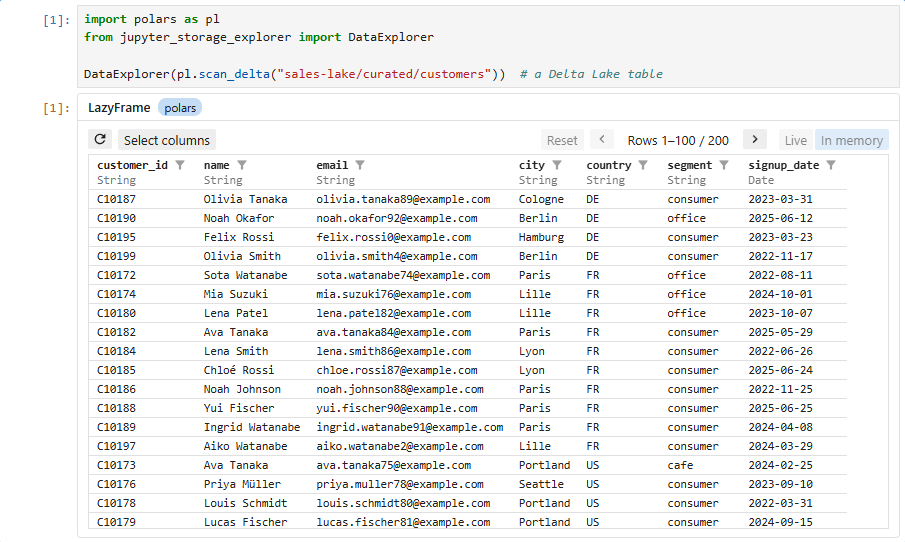
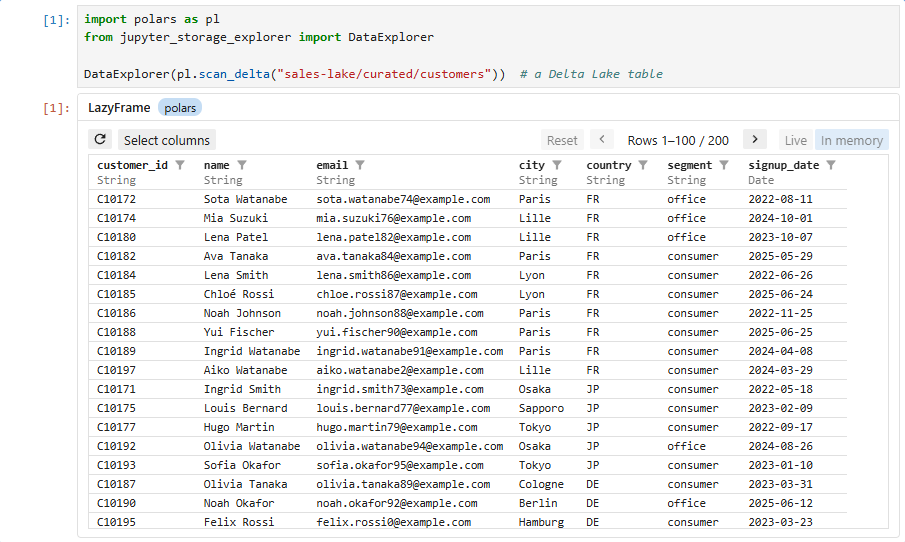
Filters: a button to match case; Up right before the path
Filters ignored case, with no way to match it. An Aa button, off at first, now
matches case, for text and regular expressions, in the browser and in the
kernel's filter of large folders.

Up comes right before the path in the toolbar, as in the sidebar layout, whose
filter now takes its bar's whole width.

The screenshots and GIFs are made again with the new toolbar and filter.

Claude-Session: https://claude.ai/code/session_01B9a22URyrxwXHnqdzQn2rs

diff --git a/src/jupyter_storage_explorer/static/common.js b/src/jupyter_storage_explorer/static/common.js
@@ -189,28 +189,37 @@ function confirmButtons(label) {
 }
 
 // A one-line filter: a text field with a search icon (not a button) and a
-// clear button (✕, while it has text), and a ".*" toggle for regular expressions. Matching is always
-// case-insensitive. onChange() is called as it changes. test(text) tells
-// whether a name matches: everything matches while the field is empty, or
-// while its regular expression is invalid (marked in red). active() tells
-// whether it filters; clear() empties it. Esc in the field clears it too.
-// For filtering elsewhere (the kernel): query() gives {text, regex} while it
-// filters, else null, and invalid(message) marks the field as invalid until
-// it changes.
+// clear button (✕, while it has text), an "Aa" toggle for matching case, off at
+// first, and a ".*" toggle for regular expressions. onChange() is called as it
+// changes. test(text) tells whether a name matches: everything matches while
+// the field is empty, or while its regular expression is invalid (marked in
+// red). active() tells whether it filters; clear() empties it. Esc in the field
+// clears it too. For filtering elsewhere (the kernel): query() gives {text,
+// regex, caseSensitive} while it filters, else null, and invalid(message) marks
+// the field as invalid until it changes.
 function createFilter({ placeholder = "Filter", onChange = () => {} } = {}) {
   const input = h("input", { type: "text", className: "jse-filter-input", placeholder, spellcheck: false });
   const clearBtn = h("button", { type: "button", className: "jse-filter-clear", textContent: "✕", title: "Clear", hidden: true });
-  const regexBtn = h("button", {
-    type: "button",
-    className: "jse-btn jse-filter-regex",
-    textContent: ".*",
-    title: "Regular expression (case-insensitive)",
-  });
-  regexBtn.setAttribute("aria-pressed", "false");
+  // A toggle button, calling set(on) when clicked.
+  const toggle = (className, textContent, title, set) => {
+    const btn = h("button", { type: "button", className: `jse-btn jse-filter-toggle ${className}`, textContent, title });
+    btn.setAttribute("aria-pressed", "false");
+    btn.addEventListener("click", () => {
+      const on = !btn.classList.contains("jse-on");
+      btn.classList.toggle("jse-on", on);
+      btn.setAttribute("aria-pressed", String(on));
+      set(on);
+      update();
+    });
+    return btn;
+  };
+  let regex = false;
+  let caseSensitive = false;
+  const caseBtn = toggle("jse-filter-case", "Aa", "Match case", (on) => (caseSensitive = on));
+  const regexBtn = toggle("jse-filter-regex", ".*", "Regular expression", (on) => (regex = on));
   const searchIcon = icon("search");
   searchIcon.classList.add("jse-filter-icon");
-  const el = h("div", { className: "jse-filter" }, h("span", { className: "jse-filter-field" }, searchIcon, input, clearBtn), regexBtn);
-  let regex = false;
+  const el = h("div", { className: "jse-filter" }, h("span", { className: "jse-filter-field" }, searchIcon, input, clearBtn), caseBtn, regexBtn);
   let test = () => true;
   let active = false;
 
@@ -223,7 +232,7 @@ function createFilter({ placeholder = "Filter", onChange = () => {} } = {}) {
     active = false;
     if (text && regex) {
       try {
-        const re = new RegExp(text, "i");
+        const re = new RegExp(text, caseSensitive ? "" : "i");
         test = (name) => re.test(name);
         active = true;
       } catch (err) {
@@ -231,8 +240,8 @@ function createFilter({ placeholder = "Filter", onChange = () => {} } = {}) {
         input.title = err.message; // e.g. "Invalid regular expression: /a(/i: Unterminated group"
       }
     } else if (text) {
-      const needle = text.toLowerCase();
-      test = (name) => name.toLowerCase().includes(needle);
+      const needle = caseSensitive ? text : text.toLowerCase();
+      test = caseSensitive ? (name) => name.includes(needle) : (name) => name.toLowerCase().includes(needle);
       active = true;
     }
     if (notify) onChange();
@@ -256,12 +265,6 @@ function createFilter({ placeholder = "Filter", onChange = () => {} } = {}) {
     clear();
     input.focus({ preventScroll: true });
   });
-  regexBtn.addEventListener("click", () => {
-    regex = !regex;
-    regexBtn.classList.toggle("jse-on", regex);
-    regexBtn.setAttribute("aria-pressed", String(regex));
-    update();
-  });
   function invalid(message) {
     input.classList.add("jse-invalid");
     input.title = message;
@@ -271,7 +274,7 @@ function createFilter({ placeholder = "Filter", onChange = () => {} } = {}) {
     el,
     test: (name) => test(name),
     active: () => active,
-    query: () => (active ? { text: input.value, regex } : null),
+    query: () => (active ? { text: input.value, regex, caseSensitive } : null),
     invalid,
     clear,
     focus: () => input.focus({ preventScroll: true }),

diff --git a/src/jupyter_storage_explorer/static/storage_explorer/toolbar.js b/src/jupyter_storage_explorer/static/storage_explorer/toolbar.js
@@ -1,4 +1,4 @@
-// The toolbar: the tree's button, bookmarks, Up, Refresh, the folder's path,
+// The toolbar: the tree's button, bookmarks, Refresh, Up, the folder's path,
 // Unsafe mode, and the settings menu: the list's Columns, "Edit
 // configuration" in the launcher's tabs, "About". The sidebar layout has two narrower bars: the storage
 // chooser (slot), bookmarks, Refresh, the filter button (the list's filter,
@@ -21,7 +21,7 @@ function createToolbar(x) {
   const slot = h("div", { className: "jse-storage-slot" });
   const el = sidebar
     ? h("div", { className: "jse-toolbar" }, treeBtn, slot, x.bookmarks.button, refreshBtn, filterBtn, settingsBtn)
-    : h("div", { className: "jse-toolbar" }, treeBtn, x.bookmarks.button, upBtn, refreshBtn, pathEl, x.unsafe.el, settingsBtn);
+    : h("div", { className: "jse-toolbar" }, treeBtn, x.bookmarks.button, refreshBtn, upBtn, pathEl, x.unsafe.el, settingsBtn);
   const pathBar = sidebar ? h("div", { className: "jse-path-bar" }, upBtn, pathEl) : null;
 
   // In the sidebar layout, Unsafe mode is in the settings menu: while it is

diff --git a/src/jupyter_storage_explorer/static/common.css b/src/jupyter_storage_explorer/static/common.css
@@ -301,12 +301,12 @@
   outline-color: var(--jse-error);
 }
 
-.jse-filter-regex {
+.jse-filter-toggle {
   font-family: var(--jp-code-font-family, monospace);
 }
 
-.jse-filter-regex.jse-on,
-.jse-filter-regex.jse-on:hover:not(:disabled) {
+.jse-filter-toggle.jse-on,
+.jse-filter-toggle.jse-on:hover:not(:disabled) {
   background: var(--jse-accent-bg);
 }
 

diff --git a/src/jupyter_storage_explorer/static/storage_explorer/list.js b/src/jupyter_storage_explorer/static/storage_explorer/list.js
@@ -165,6 +165,7 @@ function createList(x) {
       version: l.version,
       text: query?.text ?? "",
       regex: query?.regex ?? false,
+      case_sensitive: query?.caseSensitive ?? false,
       sort: sort.key,
       asc: sort.asc,
       page: wanted,

diff --git a/src/jupyter_storage_explorer/static/storage_explorer.css b/src/jupyter_storage_explorer/static/storage_explorer.css
@@ -58,6 +58,11 @@
   margin-left: 2px;
 }
 
+/* There its bar holds only the filter: it takes the whole width. */
+.jse-sidebar .jse-filter {
+  max-width: none;
+}
+
 .jse-sidebar .jse-list-pane > .jse-pager {
   justify-content: center;
   margin-left: 0;

diff --git a/tests/browser/smoke.py b/tests/browser/smoke.py
@@ -213,6 +213,9 @@ def browse(x: Explorer) -> None:
     expect(x.el.locator(".jse-crumb")).to_have_text(
         ["/sales-lake", "curated", "customers"]
     )
+    # Up is right before the path.
+    path = x.el.locator(".jse-toolbar .jse-path")
+    assert path.evaluate("e => e.previousElementSibling.title") == "Parent directory"
     x.el.locator(".jse-toolbar button[title='Parent directory']").click()
     expect(x.el.locator(".jse-crumb").last).to_have_text("curated")
     x.el.locator(".jse-crumb", has_text="/sales-lake").click()
@@ -321,6 +324,17 @@ def filter_list(x: Explorer) -> None:
     expect(x.names).to_have_text(["orders_2026-07.csv", "orders_2026-09.csv"])
     field.press("Escape")  # clears it
     expect(x.names).to_have_text(months)
+    x.el.locator(".jse-list-pane .jse-filter-regex").click()
+    # Case is ignored, until the button says otherwise.
+    match_case = x.el.locator(".jse-list-pane .jse-filter-case")
+    field.fill("ORDERS")
+    expect(x.names).to_have_text(months)
+    match_case.click()
+    expect(x.names).to_have_count(0)
+    field.fill("orders_2026-08")
+    expect(x.names).to_have_text(["orders_2026-08.csv"])
+    match_case.click()
+    field.press("Escape")
 
 
 @check
@@ -340,9 +354,18 @@ def paging(x: Explorer) -> None:
     expect(x.names.first).to_have_text("file_100.txt")
     x.el.locator(".jse-list th", has_text="Name").click()
     expect(x.names.first).to_have_text("file_249.txt")
-    x.el.locator(".jse-list-pane .jse-filter-input").fill("file_24")
+    field = x.el.locator(".jse-list-pane .jse-filter-input")
+    field.fill("file_24")
     expect(label).to_be_hidden()  # one page
     expect(x.names).to_have_count(10)
+    # The kernel's filter matches case too, when asked.
+    field.fill("FILE_24")
+    expect(x.names).to_have_count(10)
+    match_case = x.el.locator(".jse-list-pane .jse-filter-case")
+    match_case.click()
+    expect(x.names).to_have_count(0)
+    match_case.click()
+    field.press("Escape")
 
 
 # --- Previews and data ---
@@ -2461,6 +2484,19 @@ def side_panel(lab: Lab, page: Page) -> None:
     expect(field).to_be_focused()
     field.press_sequentially("cur")
     expect(row).to_have_count(1)
+    # It takes the bar's whole width, with both of its buttons.
+    match_case = side.locator(".jse-list-pane .jse-filter-case")
+    expect(match_case).to_be_visible()
+    match_case.click()
+    field.fill("CUR")
+    curated = row.filter(has=page.get_by_text("curated", exact=True))
+    expect(curated).to_have_count(0)
+    match_case.click()
+    expect(curated).to_have_count(1)
+    bar_box = side.locator(".jse-list-pane .jse-pane-bar").bounding_box()
+    filter_box = side.locator(".jse-list-pane .jse-filter").bounding_box()
+    assert bar_box is not None and filter_box is not None
+    assert filter_box["width"] > bar_box["width"] - 20
     filter_btn.click()
     expect(field).to_be_hidden()
     expect(row.filter(has=page.get_by_text("landing", exact=True))).to_be_visible()

diff --git a/src/jupyter_storage_explorer/_explorer/listing.py b/src/jupyter_storage_explorer/_explorer/listing.py
@@ -82,6 +82,7 @@ class Listing:
         *,
         text: str = "",
         regex: bool = False,
+        case_sensitive: bool = False,
         sort: str = "name",
         asc: bool = True,
         page: int = 0,
@@ -89,9 +90,10 @@ class Listing:
         labels: dict[str, str] | None = None,
     ) -> dict[str, Any]:
         """A page of the items whose names match ``text`` (a substring, or a
-        regular expression with ``regex``; case is ignored), sorted by
-        ``sort`` with folders first; "format" by the formats' ``labels``
-        (name -> label, as the list shows them; else their names).
+        regular expression with ``regex``; case is ignored unless
+        ``case_sensitive``), sorted by ``sort`` with folders first; "format" by
+        the formats' ``labels`` (name -> label, as the list shows them; else
+        their names).
 
         Returns {"listing": the page's columns, as ``_make_listing``'s,
         "matching", "total", "page"}, the page number limited to those there
@@ -104,12 +106,16 @@ class Listing:
         out: dict[str, Any] = {}
         if text and regex:
             try:
-                search = re.compile(text, re.IGNORECASE).search
+                flags = 0 if case_sensitive else re.IGNORECASE
+                search = re.compile(text, flags).search
             except re.error as exc:
                 out["filter_error"] = f"Invalid regular expression: {exc}"
             else:
                 names = self.columns["names"]
                 order = [i for i in order if search(names[i])]
+        elif text and case_sensitive:
+            names = self.columns["names"]
+            order = [i for i in order if text in names[i]]
         elif text:
             needle, lower = text.lower(), self._lower()
             order = [i for i in order if needle in lower[i]]

diff --git a/tests/explorer/test_listing.py b/tests/explorer/test_listing.py
@@ -153,6 +153,14 @@ class TestQuery:
             "File2.csv",
         ]
 
+    def test_text_filter_matching_case(self, listing):
+        assert names(listing.query(text="File", case_sensitive=True)) == ["File2.csv"]
+        assert names(listing.query(text="FILE", case_sensitive=True)) == []
+
+    def test_regex_filter_matching_case(self, listing):
+        page = listing.query(text=r"^F\w+\d\.", regex=True, case_sensitive=True)
+        assert names(page) == ["File2.csv"]
+
     def test_invalid_regex_filters_nothing(self, listing):
         page = listing.query(text="a(", regex=True)
         assert page["filter_error"].startswith("Invalid regular expression")

diff --git a/src/jupyter_storage_explorer/_explorer/folders.py b/src/jupyter_storage_explorer/_explorer/folders.py
@@ -394,6 +394,7 @@ class FoldersMixin:
         return listing.query(
             text=content.get("text") or "",
             regex=bool(content.get("regex")),
+            case_sensitive=bool(content.get("case_sensitive")),
             sort=content.get("sort", "name"),
             asc=content.get("asc", True),
             page=int(content.get("page", 0)),

diff --git a/docs/storage-explorer.md b/docs/storage-explorer.md
@@ -116,8 +116,8 @@ StorageExplorer(
 
 ### Filter
 
-Type above the list to show the names containing the text. Text with **.\*** is a regular expression. ✕ or Esc clears
-the filter.
+Type above the list to show the names containing the text. Case is ignored unless **Aa** is on. Text with **.\*** is a
+regular expression. ✕ or Esc clears the filter.
 
 <img src="figs/using-filter.png" width="562" alt="The list filtered with a regular expression">
 
